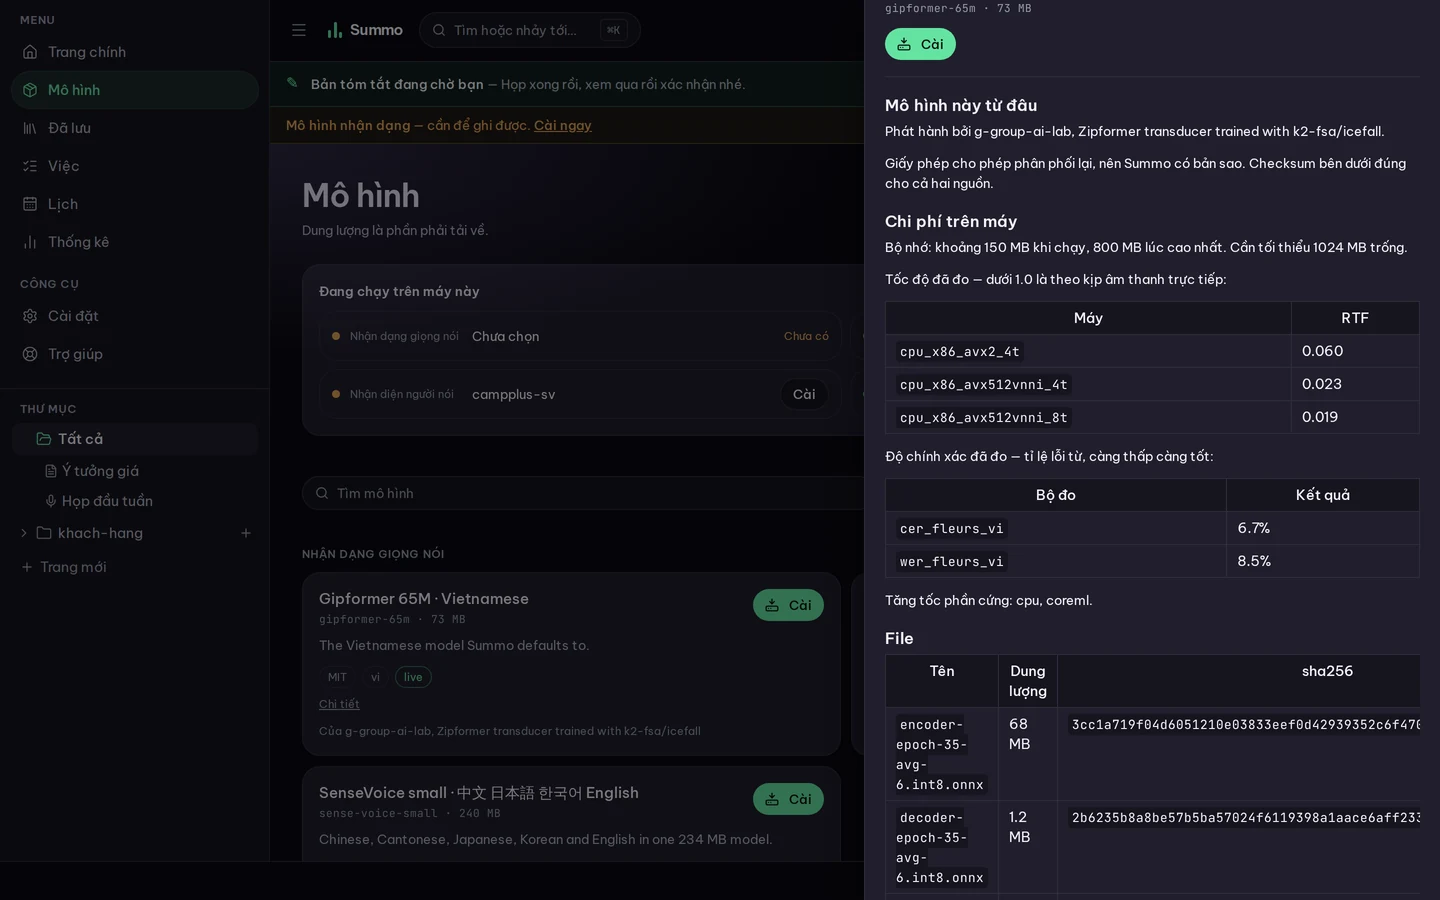
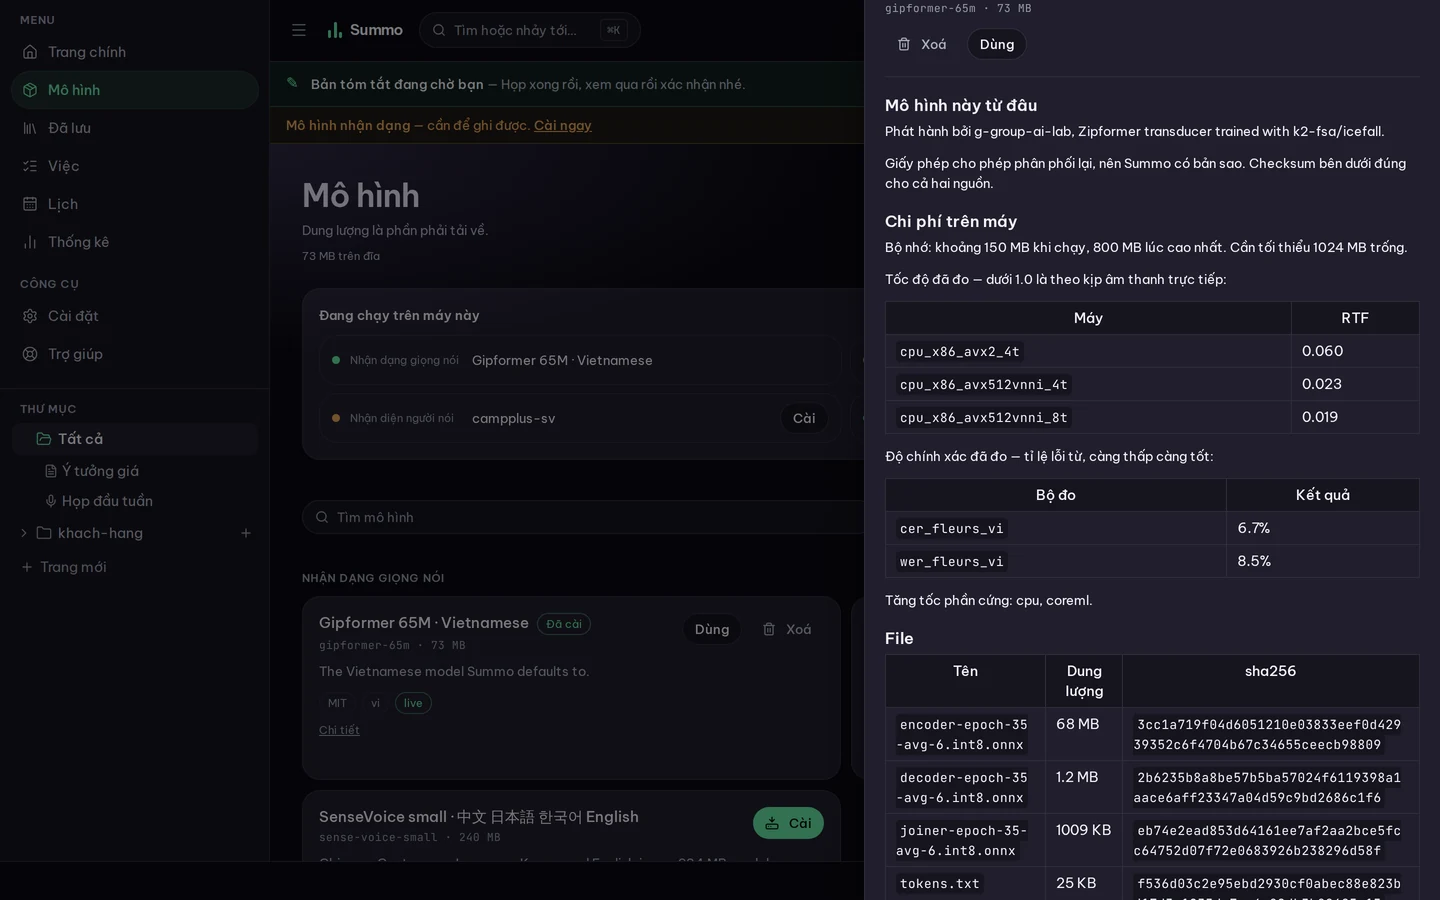
docs: show the app, and stop the models table contradicting the card under it
The README had no picture of the product in it. Five now: a meeting being
recorded, the home screen, a finished meeting, the catalogue and a model's page —
taken from the app as it is, on a vault with a real recording in it.

Three things the screenshots caught:

- The running table said "nothing chosen" for recognition while the card below it
  said "installed" and a recording used that very model. With no language pinned
  the ranking asks for `*`, which a specialised model does not claim, so nothing
  came back. It falls through to the installed model now — the one a session
  would load.
- A sha256 in a model's page pushed the table past the edge of the panel. Inline
  code breaks anywhere now, which is what a 64-character token needs.
- A vault with a recogniser and no detector was told to install a recogniser. The
  banner names the half that is missing, which the daemon has been reporting all
  along.

`==highlight==` renders where notes are read, not only where they are written.

diff --git a/apps/web/src/components/settings/Recognition.tsx b/apps/web/src/components/settings/Recognition.tsx
@@ -1,0 +1,209 @@
+import { useCallback, useMemo, useState } from "react";
+
+import { useI18n } from "../../i18n/context";
+import { CatalogueClient, type CatalogueModel } from "../../lib/catalogue";
+import { useEngine } from "../../lib/engine-context";
+import { useErrorText } from "../../lib/errors";
+import { fetchLanguages, languageName, rememberLanguage } from "../../lib/languages";
+import { url } from "../../lib/library";
+import { useLoad } from "../../lib/use-load";
+import { SegmentedControl } from "../ui";
+
+/**
+ * Which model does the listening, and in which language.
+ *
+ * The app has always answered this the other way round. You pick a *language*, it ranks the
+ * installed models for it and uses the winner — which is the right default and is not a choice.
+ * Vietnamese always resolves to Gipformer, because on Vietnamese Gipformer measures 91.5 % and
+ * Whisper 34.5 %, so Whisper is never offered for it. Somebody who wants Whisper anyway — for a
+ * meeting that will switch languages, or to compare the two — had no way to say so.
+ *
+ * Both directions live here, as one choice with two positions:
+ *
+ * - **By language** — the old behaviour, unchanged and still the default. Pick what will be
+ *   spoken; the best installed model for it is used.
+ * - **By model** — pick the model first, then any language *it* supports. For Whisper that is
+ *   ninety-nine of them, which is the whole reason somebody installs it.
+ *
+ * Nothing new was needed underneath. `settings.models.live` has always been honoured ahead of the
+ * ranking — see `chosen_model` in `server.rs`, which returns early when the setting names a model —
+ * and `settings.models.language` has always been the language. This screen is the first thing that
+ * writes both deliberately, so the pair says what it means.
+ *
+ * ## It says when the choice is worse
+ *
+ * The point of letting somebody overrule the ranking is that they sometimes should. The point of
+ * measuring models is that usually they should not. So when the chosen model is not the one the
+ * daemon would have picked for that language, this names the one it would have — without inventing
+ * a number for the pair, because `/languages` reports accuracy for the *best* model per language
+ * and not for whichever one is being overruled. Saying "Gipformer is recommended here" is
+ * supportable; printing a percentage for Whisper-on-Vietnamese from that endpoint would not be.
+ */
+export function Recognition() {
+  const { t, locale } = useI18n();
+  const say = useErrorText();
+  const { handshake } = useEngine();
+  const [error, setError] = useState<string | null>(null);
+  const [busy, setBusy] = useState(false);
+  /** Bumped after a write, so both lists are re-read rather than assumed. */
+  const [generation, setGeneration] = useState(0);
+
+  const catalogue = useLoad(
+    useCallback(
+      async () => new CatalogueClient(handshake).list(),
+      // eslint-disable-next-line react-hooks/exhaustive-deps -- re-read after a write.
+      [handshake, generation],
+    ),
+    [handshake, generation],
+  );
+  const languages = useLoad(
+    useCallback(
+      async () => fetchLanguages(handshake),
+      // eslint-disable-next-line react-hooks/exhaustive-deps -- re-read after a write.
+      [handshake, generation],
+    ),
+    [handshake, generation],
+  );
+
+  /** Only what is on this machine: a model that is not installed cannot do the listening. */
+  const installed = useMemo(
+    () =>
+      (catalogue.data?.models ?? []).filter(
+        (model) => model.installed && model.task === "asr" && model.langs.length > 0,
+      ),
+    [catalogue.data],
+  );
+
+  const current = languages.data?.current ?? "";
+  const chosen = languages.data?.model ?? "";
+  const model = installed.find((m) => m.id === chosen);
+  const [mode, setMode] = useState<"language" | "model">(chosen ? "model" : "language");
+
+  /** What the daemon would pick for a language, so an override can be named as one. */
+  const bestFor = useCallback(
+    (code: string) => languages.data?.languages.find((l) => l.code === code),
+    [languages.data],
+  );
+
+  const write = async (next: { model?: string; language?: string }) => {
+    setBusy(true);
+    setError(null);
+    try {
+      if (next.model !== undefined) {
+        const response = await fetch(url(handshake, "/settings/models"), {
+          method: "POST",
+          headers: { "content-type": "application/json" },
+          body: JSON.stringify({ role: "live", model: next.model }),
+        });
+        if (!response.ok) throw new Error(await response.text());
+      }
+      if (next.language !== undefined) await rememberLanguage(handshake, next.language);
+      setGeneration((n) => n + 1);
+    } catch (e) {
+      setError(say(e));
+    } finally {
+      setBusy(false);
+    }
+  };
+
+  // Nothing installed is not an error and not a form: it is the models screen's job, and the
+  // recording banner already sends people there.
+  if (catalogue.data && installed.length === 0) {
+    return (
+      <section className="border-line bg-bg-raised mt-6 rounded-2xl border p-5">
+        <h3 className="font-medium">{t("settings.recognition_heading")}</h3>
+        <p className="text-fg-dim text-meta mt-1">{t("settings.recognition_none")}</p>
+      </section>
+    );
+  }
+
+  const recommended = mode === "model" && model ? bestFor(current) : undefined;
+  const overruled =
+    recommended?.model && model && recommended.model !== model.id ? recommended : undefined;
+
+  return (
+    <section className="border-line bg-bg-raised mt-6 rounded-2xl border p-5" data-testid="settings-recognition">
+      <h3 className="font-medium">{t("settings.recognition_heading")}</h3>
+      <p className="text-fg-dim text-meta mt-1 mb-3">{t("settings.recognition_hint")}</p>
+
+      <SegmentedControl
+        label={t("settings.recognition_heading")}
+        size="sm"
+        options={[
+          { value: "language" as const, label: t("settings.by_language") },
+          { value: "model" as const, label: t("settings.by_model") },
+        ]}
+        value={mode}
+        onChange={(next) => {
+          setMode(next);
+          // Going back to "by language" means giving the ranking its job back, so the pinned model
+          // is cleared rather than left behind to keep winning silently.
+          if (next === "language") void write({ model: "" });
+        }}
+      />
+
+      {mode === "model" && (
+        <div className="mt-4 grid gap-3 sm:grid-cols-2">
+          <label className="block">
+            <span className="text-fg-faint text-meta">{t("settings.the_model")}</span>
+            <select
+              value={model?.id ?? ""}
+              aria-label={t("settings.the_model")}
+              disabled={busy}
+              onChange={(e) => void write({ model: e.target.value })}
+              className="border-line bg-bg-soft text-fg hover:border-line-strong focus-visible:border-accent mt-1 h-9 w-full rounded-[var(--radius-card)] border px-2 text-sm transition-colors focus:outline-none"
+            >
+              <option value="">{t("settings.pick_a_model")}</option>
+              {installed.map((each) => (
+                <option key={each.id} value={each.id}>
+                  {each.name}
+                </option>
+              ))}
+            </select>
+          </label>
+
+          <label className="block">
+            <span className="text-fg-faint text-meta">{t("settings.the_language")}</span>
+            <select
+              value={current}
+              aria-label={t("settings.the_language")}
+              // Every language *this* model claims, which for a multilingual one is the ninety-nine
+              // the card now lists. Sorted by name in the reader's own language: a list ordered by
+              // ISO code puts Vietnamese between Urdu and Yiddish.
+              disabled={busy || !model}
+              onChange={(e) => void write({ language: e.target.value })}
+              className="border-line bg-bg-soft text-fg hover:border-line-strong focus-visible:border-accent mt-1 h-9 w-full rounded-[var(--radius-card)] border px-2 text-sm transition-colors focus:outline-none disabled:opacity-[var(--disabled-opacity)]"
+            >
+              <option value="">{t("settings.detect_it")}</option>
+              {[...(model?.langs ?? [])]
+                .map((code) => ({ code, label: languageName(code, locale) }))
+                .sort((a, b) => a.label.localeCompare(b.label, locale))
+                .map((each) => (
+                  <option key={each.code} value={each.code}>
+                    {each.label}
+                  </option>
+                ))}
+            </select>
+          </label>
+        </div>
+      )}
+
+      {/* Overruling the ranking is allowed and is worth saying out loud, once, without a number
+          nobody measured for this pair. */}
+      {overruled && (
+        <p className="border-blocked/30 bg-blocked-soft text-blocked text-meta mt-3 rounded-lg border px-3 py-2">
+          {t("settings.model_overruled", {
+            language: languageName(current, locale),
+            model: overruled.model_name ?? overruled.model ?? "",
+          })}
+        </p>
+      )}
+
+      {error && (
+        <p role="alert" className="text-danger text-meta mt-3">
+          {error}
+        </p>
+      )}
+    </section>
+  );
+}

diff --git a/apps/web/src/components/onboarding/FirstRun.tsx b/apps/web/src/components/onboarding/FirstRun.tsx
@@ -111,6 +111,14 @@ export function FirstRun({
   // A broken install is a banner, not a takeover: the notes still open, the search still works, and
   // the one thing that does not work says so instead of hiding everything that does.
   const stuck = status ? blocker(status) : null;
+  // Which half is missing, so the banner names it. `missing` is data the daemon already computes —
+  // a vault with a recogniser and no voice detector was being told to install a recogniser, which
+  // is both wrong and unfixable by doing what it says.
+  const lacks = stuck?.missing ?? [];
+  const part =
+    stuck?.step === "models" && !lacks.includes("asr") && lacks.includes("vad")
+      ? "vad"
+      : (stuck?.step ?? "models");
 
   // A column rather than a fragment. The banner and the screen are siblings inside the scrolling
   // pane, and the screens size themselves to the full height of it — so a fragment made every screen
@@ -120,8 +128,7 @@ export function FirstRun({
     <div className="flex h-full min-h-0 flex-col">
       {stuck && (
         <p className="border-blocked/30 bg-blocked-soft text-blocked text-meta shrink-0 border-b px-4 py-2">
-          <b className="font-medium">{t(`setup.step_${stuck.step}`)}</b> —{" "}
-          {t(`setup.why_${stuck.step}`)}{" "}
+          <b className="font-medium">{t(`setup.step_${part}`)}</b> — {t(`setup.why_${part}`)}{" "}
           <button
             type="button"
             onClick={() => {

diff --git a/apps/web/src/components/page/Markdown.tsx b/apps/web/src/components/page/Markdown.tsx
@@ -279,6 +279,10 @@ function Marked({
     if (mark.type === "bold") out = <strong className="font-semibold">{out}</strong>;
     else if (mark.type === "italic") out = <em>{out}</em>;
     else if (mark.type === "strike") out = <s className="text-fg-faint">{out}</s>;
+    // The same `==text==` the editor writes. Without this a highlighted line reads as ordinary
+    // text everywhere it is *displayed* rather than edited — the meeting page, a citation, search.
+    else if (mark.type === "highlight")
+      out = <mark className="bg-accent-soft text-fg rounded px-0.5">{out}</mark>;
     else if (mark.type === "code")
       // `break-all`, because the longest inline code in this app is a sha256 — one 64-character
       // token with nowhere to break, which pushes a table wider than the panel holding it.
